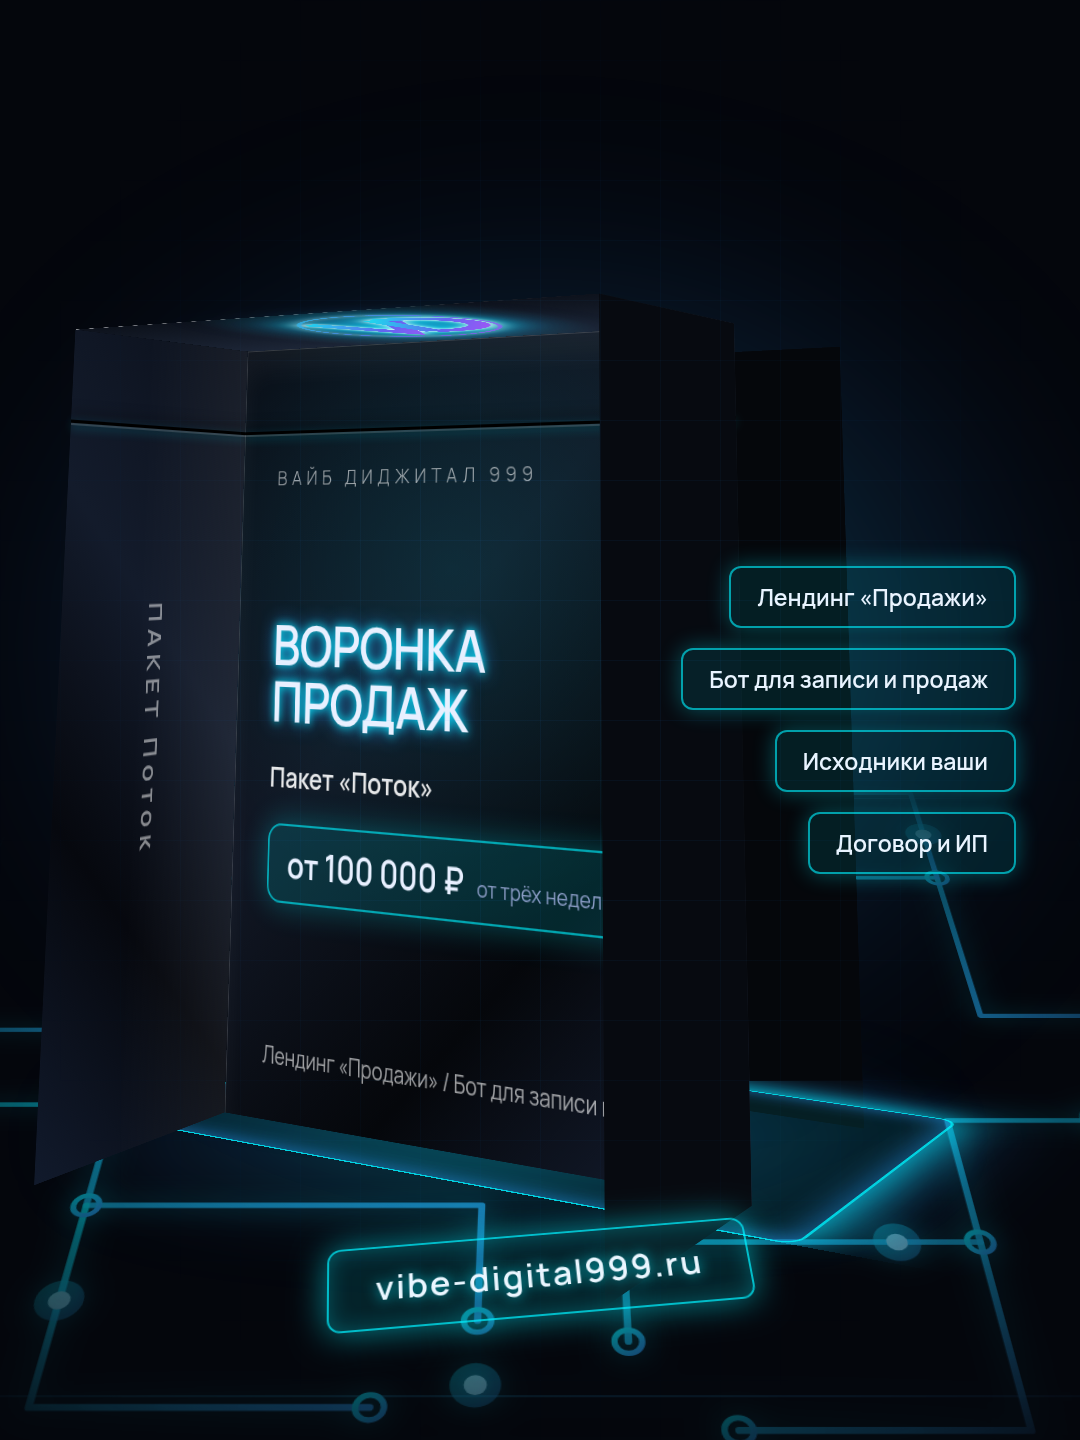
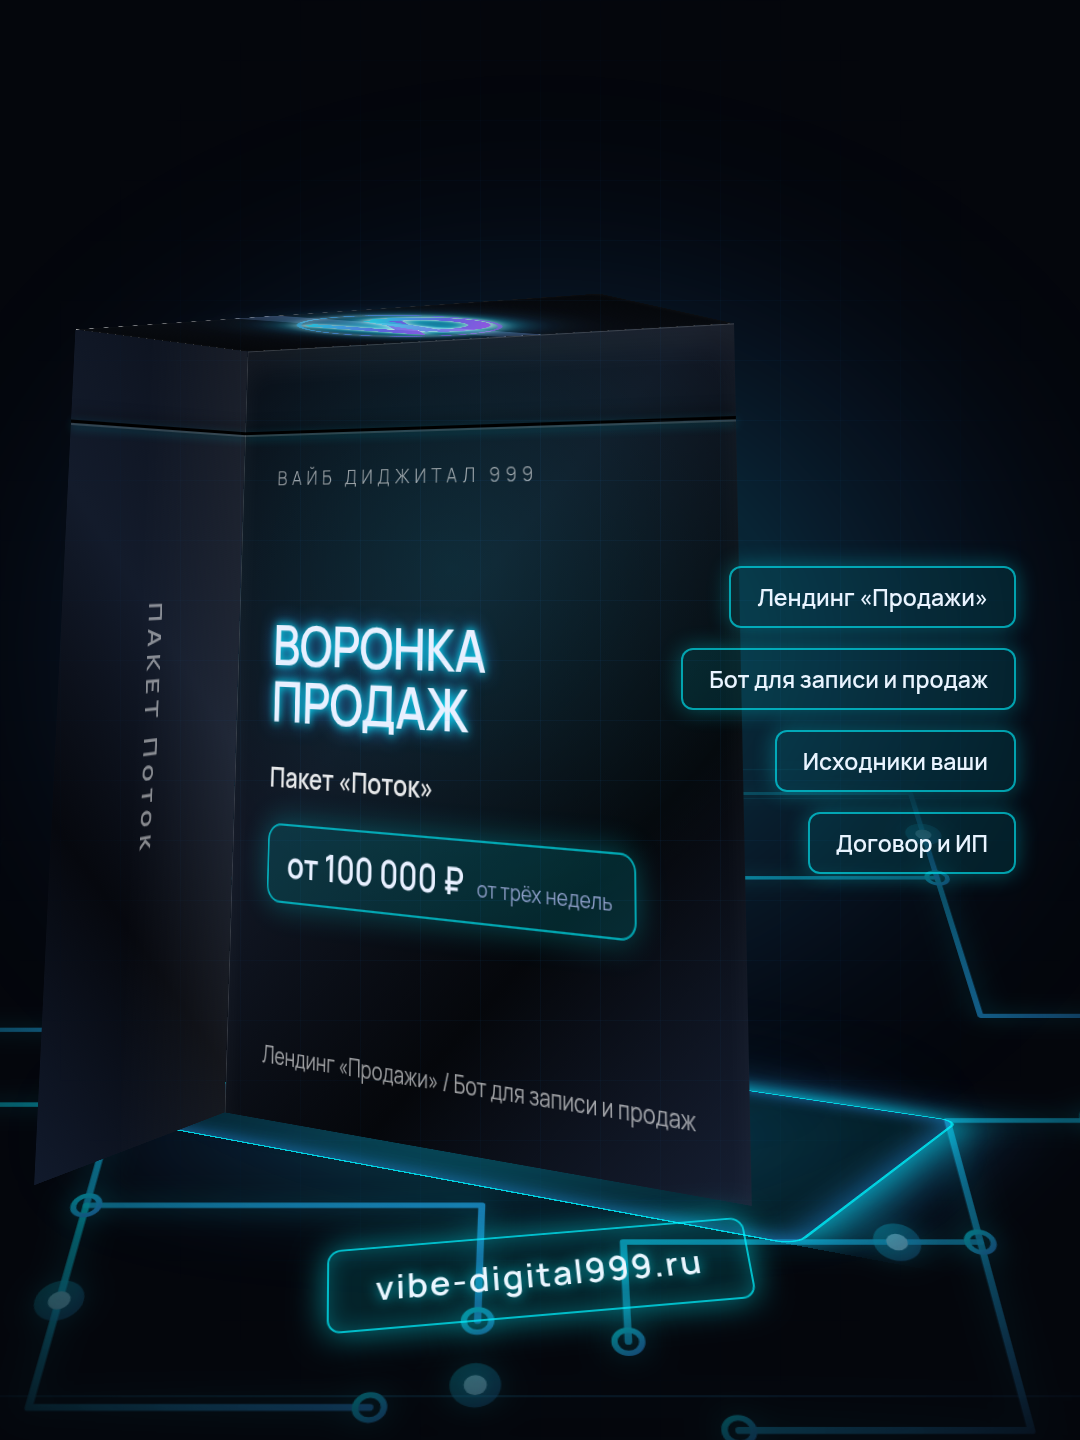
Крышка тёмным зеркалом, откат задней и правой граней
Резкие остановки градиента дают полосу отражения софтбокса, логотип
смешивается со светлением и читается заодно с крышкой.

Задняя и правая грани удалены: добавлялись ради пунктира, его не убрали,
а силуэт сломали — задняя панель вылезала справа из-за коробки.

Claude-Session: https://claude.ai/code/session_01ELgwZhZjs3zH5Yv9y5TfEh

Changed region(s): [[0.1528, 0.1875, 0.7944, 0.625], [0.55, 0.7188, 0.7333, 0.875], [0.55, 0.5625, 0.6111, 0.6562]]

diff --git a/marketing/paket-korobka.js b/marketing/paket-korobka.js
@@ -283,30 +283,32 @@ ${fontCss}
     white-space:nowrap;font-size:26px;font-weight:800;letter-spacing:.24em;
     color:rgba(255,255,255,.5)}
 
-  /* ЗАДНЯЯ И ПРАВАЯ ГРАНИ. Зрителю их не видно, но без них по задним
-     рёбрам просвечивает фон: соседние грани сходятся в линию,
-     и на субпиксельной сетке между ними остаются точки-просветы.
-     На увеличении это читается пунктиром вдоль ребра — именно его
-     легко принять за дыру на стыке. Замкнутое тело не просвечивает
-     нигде и при любом угле. */
-  .box-back{width:var(--shir);height:var(--vys);left:0;top:0;
-    transform:translateZ(calc(-1 * var(--pol)));
-    background:#05070B}
-  .box-right{width:var(--glub);height:var(--vys);right:0;top:0;
-    transform-origin:right center;
-    transform:translateZ(var(--pol)) rotateY(90deg);
-    background:#070A10}
+  /* ЗАДНЕЙ И ПРАВОЙ ГРАНЕЙ ЗДЕСЬ НЕТ, И ЭТО НАМЕРЕННО.
+
+     Пробовал добавить — ради пунктирного просвета по заднему ребру.
+     Пунктир не ушёл, а силуэт сломался: задняя панель вылезла справа
+     из-за коробки отдельным прямоугольником. Три грани при этом угле
+     дают правильный контур, четвёртая и пятая только мешают.
+
+     Правило: правка, которая не решила задачу, откатывается целиком,
+     а не остаётся «на всякий случай». Иначе через неделю никто
+     не вспомнит, зачем эти грани, и будут чинить последствия. */
 
   /* Верхняя крышка */
   .box-top{width:var(--shir);height:var(--glub);left:0;top:0;
     transform-origin:top center;
     transform:translateZ(var(--pol)) rotateX(90deg);
-    /* Крышка ловит свет сверху, поэтому светлее остальных граней.
-       Радиальное пятно — свет от букв, падающий на пластик. */
-    background:
-      radial-gradient(ellipse 44% 120% at 50% 50%,
-        color-mix(in srgb, var(--acc) 26%, transparent) 0%, transparent 70%),
-      linear-gradient(180deg,#1C2536 0%,#0D121C 100%);
+    /* КРЫШКА — ТЁМНОЕ ЗЕРКАЛО, а не «просто светлее».
+
+       Резкие остановки градиента (45% → 46% и 52% → 53%) дают чёткую
+       световую полосу поперёк грани — отражение софтбокса. Плавный
+       градиент такой полосы не даёт: он читается серой заливкой,
+       и грань выглядит матовой бумагой, а не глянцевым пластиком.
+       Приём в том, что переход занимает ОДИН процент, а не двадцать. */
+    background:linear-gradient(115deg,
+      #05070A 0%, #090D14 45%, #222D42 46%, #2D3C59 52%, #090D14 53%, #05070A 100%);
+    box-shadow:inset 0 0 20px rgba(255,255,255,.05),
+               inset 1px 1px 0 rgba(255,255,255,.2);
     display:flex;align-items:center;justify-content:center}
   /* Крышка после rotateX(90deg) обращена к зрителю обратной стороной
      плоскости: содержимое на ней переворачивается по вертикали, и «V»
@@ -315,7 +317,11 @@ ${fontCss}
      книги, — проверять на увеличенном куске. */
   /* Крышку видно под острым углом, поэтому знак на ней сплющивается.
      Размер и свечение подняты, чтобы он читался в кадре. */
+  /* Логотип смешивается со светлением, а не кладётся сверху заплаткой:
+     полоса отражения проходит сквозь буквы, и знак с крышкой читаются
+     одним предметом. */
   .box-top svg{width:224px;height:224px;transform:rotateX(180deg);
+    mix-blend-mode:screen;opacity:.9;
     filter:drop-shadow(0 0 8px #fff)
            drop-shadow(0 0 20px color-mix(in srgb, var(--acc) 95%, transparent))
            drop-shadow(0 0 42px color-mix(in srgb, var(--acc2) 70%, transparent))}
@@ -410,8 +416,6 @@ ${fontCss}
     <div class="plata">${PLATA(p.id)}</div>
     <div class="box-scene">
     <div class="box">
-      <div class="gran box-back"></div>
-      <div class="gran box-right"></div>
       <div class="gran box-bottom"></div>
       <div class="gran box-left"><span>ПАКЕТ ${p.nazvanie.replace(/[«»]/g, '')}</span></div>
       <div class="gran box-top">${LOGO(p.id)}</div>

diff --git a/TASKS.md b/TASKS.md
@@ -3670,3 +3670,35 @@ GreenSock). Проверено открытием страниц, а не пои
       и незамкнутость исключены. Следующий шаг — проверить, не даёт ли
       его `filter: drop-shadow` на логотипе крышки и радиальный градиент
       на ней же.
+
+### 13 августа, дополнение — крышка стала тёмным зеркалом
+
+**Сделано:**
+
+- [x] `      ` **Крышка перекрашена в тёмное зеркало.** Резкие остановки
+      градиента — переход занимает ОДИН процент вместо двадцати —
+      дают чёткую световую полосу поперёк грани, отражение софтбокса.
+      Плавный градиент такой полосы не даёт: грань читается матовой
+      бумагой. Плюс стеклянный слой внутренними тенями.
+- [x] `      ` **Логотип смешивается со светлением** (`mix-blend-mode:
+      screen`, прозрачность 0.9): полоса отражения проходит сквозь
+      буквы, знак и крышка читаются одним предметом, а не наклейкой
+      поверх.
+
+**Откат вчерашней правки, и это отдельный урок.**
+
+- [x] `      ` **Задняя и правая грани удалены.** Я добавил их часом
+      раньше, гоняясь за пунктирным просветом по заднему ребру.
+      Пунктир они не убрали, а **силуэт сломали**: задняя панель вылезла
+      справа из-за коробки отдельным прямоугольником. Заметил только
+      на общем плане после следующей правки — на вырезе стыка её не
+      видно.
+
+**Правило записано в код:** правка, которая не решила задачу,
+откатывается ЦЕЛИКОМ, а не остаётся «на всякий случай». Я оставил
+грани со словами «с ними коробка честнее» — и через час чинил
+последствия. Через неделю никто не вспомнил бы, зачем они там.
+
+**И второе:** после каждой правки смотреть не только на вырез, но и
+на общий план. Вырез показывает то, что чинишь; сломанное вылезает
+в другом месте.
